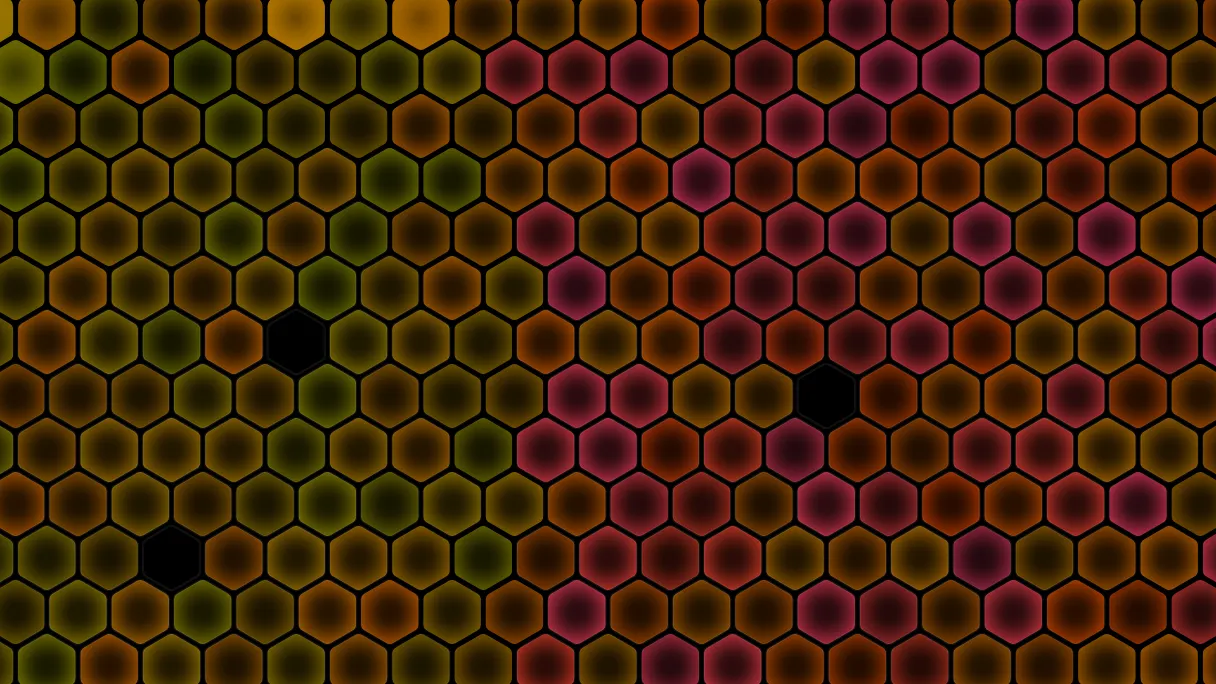
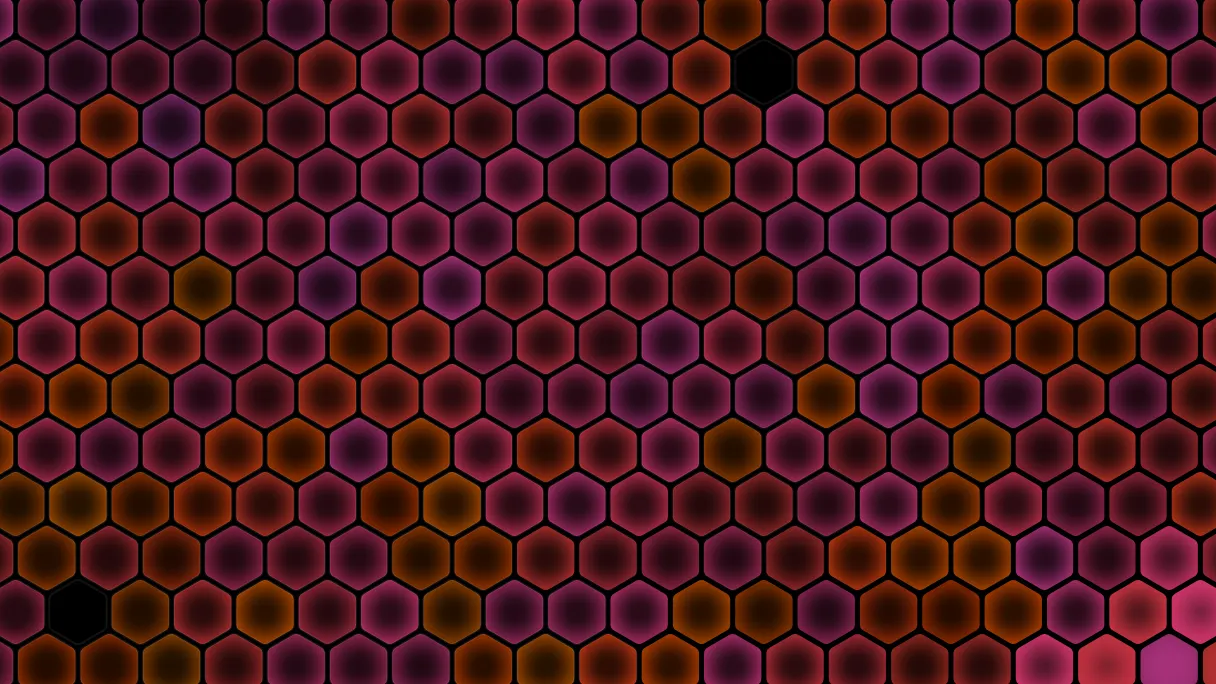
feat(experiments): psyxels and hexgrid draw their plates
Andrei: "psyxels loads first preset right away. i don't see why we need
90s. hexgrid spends most of its early life as a black screen and i'm sure
we can accelerate that". Psyxels draws its first frame (88 ms), and its
poster is the brightest of six, because a fresh field breathes in unison.
Hexgrid's jump to its moment costs 5 ms; the search was the price, so it
looks every half second instead of every tenth: 358 ms instead of 2.8 s.
Twelve of thirteen plates draw; walkers keeps its poster.

diff --git a/src/experiments/psyxels/poster.ts b/src/experiments/psyxels/poster.ts
@@ -2,17 +2,16 @@ import type { PosterRecipe } from "@/experiments/poster"
 import type { ExperimentApi } from "@/experiments/psyxels/runner"
 
 /**
- * What Psyxels looks like when someone should want to click it.
+ * What Psyxels looks like when someone should want to click it: its first
+ * frame, which is what the landing page opens on.
  *
- * Frame one is a field that has never repacked: every psyx is the size the
- * seed first gave it, every psyx is at the same age, and the arrival ease has
- * them all at the same brightness. That is a picture of the packing, which is
- * half the piece, and it is missing the half that moves.
- *
- * Ninety seconds is a dozen or so size changes per square at the landing scene's
- * churn — long enough that the field on the poster is one the seed alone would
- * never have produced, and that the psyxels are spread across their own cycles
- * rather than sharing one.
+ * **This recipe used to run ninety seconds**, so that the field had repacked a
+ * dozen times and the psyxels were spread across their own cycles rather than
+ * sharing one. That is true of the motion, and at plate size the two frames
+ * read as the same word. Andrei: "psyxels loads first preset right away. i
+ * don't see why we need 90s." The index draws each plate live or falls back to
+ * this poster (`../docs/adr/20261102-the-index-draws-its-plates.md`), and the
+ * run was most of the plate's cost.
  *
  * No preset named, deliberately, and for the reason Dangler's and Flotsam's
  * recipes give: a bare URL lands on the first preset, so opening the piece and
@@ -27,19 +26,23 @@ import type { ExperimentApi } from "@/experiments/psyxels/runner"
  * `pnpm run posters` is for.
  */
 const poster: PosterRecipe<ExperimentApi> = {
-  prepare: ({ api }) => api.run(90),
-
   /**
-   * Half a second, and not for the piece's sake — `run()` has already put the
-   * field where it should be.
-   *
-   * It is for the *chrome*. The capture pins the piece idle before the recipe
-   * runs, and the bar fades out over `--ui-fade`; `run()` then blocks the main
-   * thread for about as long as that fade, so a shutter firing the instant it
-   * returns catches the controls half gone. The first capture here had a ghost
-   * of the preset bar lying across the bottom of the letter.
+   * Half a second, and not for the piece's sake. It is for the *chrome*: the
+   * capture pins the piece idle, and the bar fades out over `--ui-fade`, so a
+   * shutter firing at once catches the controls half gone. The first capture
+   * here had a ghost of the preset bar lying across the bottom of the letter.
+   * The index ignores it, since this piece has no `settle` to spend it on.
    */
   dwellMs: 500,
+
+  /**
+   * And the brightest of several, because a fresh field breathes in unison:
+   * every psyx is the same age, so the whole word dims and brightens together.
+   * One shutter half a second in caught a trough, dimmer than the plate the
+   * index draws a few frames after the start, near full breath. Six shots three
+   * seconds wide cover a breath.
+   */
+  attempts: 6,
 }
 
 export default poster

diff --git a/src/experiments/hexgrid/poster.ts b/src/experiments/hexgrid/poster.ts
@@ -16,9 +16,19 @@ const poster: PosterRecipe<ExperimentApi> = {
     api.pause(true)
     api.clear()
     const { period } = api.stats().loop
+    // How far apart the search looks, in seconds of loop. It was a tenth,
+    // which on the primary's 15.8 s loop is 158 settles, each one drawn, and
+    // 1.3 s on the preview box, against the 600 ms the index allows a plate
+    // (../docs/adr/20261102-the-index-draws-its-plates.md). The brightness
+    // holds near its peak for seconds at a time, about 0.9 lit from 7 s to
+    // 9.5 s on the primary, so half a second finds a moment as lit at a fifth
+    // of the cost. Jumping to the moment found costs 5 ms; the search was the
+    // whole price. Declared in here because the capture serialises this
+    // function into the page, and nothing from the module goes with it.
+    const stride = 0.5
     let best = { at: 0, lit: -1 }
-    for (let at = 0; at < period - 0.1; at += 0.1) {
-      api.settle(at === 0 ? 0 : 0.1)
+    for (let at = 0; at < period - stride; at += stride) {
+      api.settle(at === 0 ? 0 : stride)
       const { lit } = api.stats()
       if (lit > best.lit) best = { at, lit }
     }

diff --git a/src/experiments/gallery/plates.ts b/src/experiments/gallery/plates.ts
@@ -49,11 +49,16 @@ import type { Live, Preset, Start } from "@/experiments/piece"
  * is now `standing still`, reached through a coarse warm-up; its `poster.ts`
  * says why. Its plate takes about 260 ms, of which `warm` is 220.
  *
- * Crowd and Flotsam draw their first frame, in 176 ms and 219 ms, rather than
- * the 45 s and 40 s their recipes used to run. Their `poster.ts` files say why
- * that frame is the piece.
+ * Crowd, Flotsam and Psyxels draw their first frame, in 176, 219 and 88 ms,
+ * rather than the 45, 40 and 90 s their recipes used to run, and Hexgrid looks
+ * for its brightest moment every half second instead of every tenth, 358 ms
+ * instead of 2.8 s. Their `poster.ts` files say why.
+ *
+ * Walkers is the one left. Its picture is the ground people have worn, which
+ * takes minutes of crowd and tens of seconds of painted trail to arrive at:
+ * 5 s of it alone costs 2.5 s.
  */
-const POSTER_ONLY = new Set(["hexgrid", "psyxels", "walkers"])
+const POSTER_ONLY = new Set(["walkers"])
 
 /**
  * Longest a plate may take to draw before the device is judged too slow for

diff --git a/src/experiments/psyxels/AGENTS.md b/src/experiments/psyxels/AGENTS.md
@@ -380,8 +380,8 @@ flatten` at first, which looks right on a letter — ink is 1 almost everywhere 
 - **`playback` scales the clock in one place, in `step`.** The breathing, the
   frame changes and the repacking all slow by the same factor and every
   relationship between them survives. `run()` is deliberately not scaled by it:
-  it means seconds of field, because a poster recipe asking for ninety seconds
-  wants ninety seconds whatever rate someone is viewing at.
+  it means seconds of field, because a caller asking for ninety seconds wants
+  ninety seconds whatever rate someone is viewing at.
 - **`DEFAULT_SETTINGS` is a baseline, not a scene, and no preset inherits from
   it.** Presets were spread over it and the featured scene _was_ it, so the day
   the featured scene changed every preset that had not named a setting silently
@@ -469,8 +469,10 @@ tests it once, on the kit's own fixture
 sees anything visual, and for this piece neither sees anything structural either.
 
 **A still of frame one is a still of a field that has never repacked.** Use
-`?run=90`, or `experiment.run(90)`, or the poster recipe — all of which step the
-field forward without waiting for it. Repacking is the slow motion here: a square
+`?run=90` or `experiment.run(90)`, both of which step the field forward without
+waiting for it. The poster no longer does: since 2026-11-06 it is the first
+frame, because at plate size the two read as the same word and the index draws
+it live; `poster.ts` has why. Repacking is the slow motion here: a square
 reconsiders its size a handful of times a minute.
 
 - `?debug=1` draws the squares the packing chose. With only glyphs visible, a

diff --git a/src/experiments/docs/adr/20261102-the-index-draws-its-plates.md b/src/experiments/docs/adr/20261102-the-index-draws-its-plates.md
@@ -65,6 +65,10 @@ Then crowd and flotsam, by their first frames: a still does not show what their
 recipes ran forty-odd seconds to build, as their `poster.ts` files explain. Ten
 plates come to about 1.5 s, so the total became 3 s at Andrei's word.
 
+Then psyxels by its first frame, and hexgrid by searching its loop every half
+second rather than every tenth: twelve plates, about 1.8 s. Walkers alone keeps
+its poster.
+
 **And a visitor who asked for less motion gets every poster.** Each piece
 honours the preference inside its own `start()`, with a still of its own and a
 pre-roll of up to twenty-two seconds of simulation, which the recipe's
